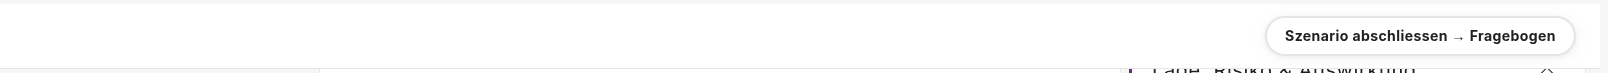
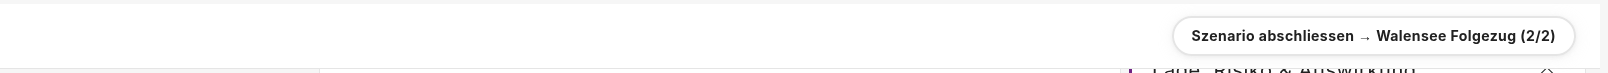
docs(plans): retake the finish pictures of #160 after #174.
Plan B asks no questionnaire after a scenario since #174, so the stepper and
the finish button in the after pictures 1, 6, 7 and 8 changed. The refusal
while a reflection is open is the same.

Changed region(s): [[0.7152, 0.411, 0.9639, 0.6027], [0.7152, 0.7397, 0.8085, 0.7671], [0.7152, 0.2192, 0.8085, 0.2466]]

diff --git a/docs/plans/reflection-inline.md b/docs/plans/reflection-inline.md
@@ -711,6 +711,12 @@ tree:
 | 6 | ![before](reflection-inline/before-6-finish.png) | ![after](reflection-inline/after-6-finish.png) |
 | 7 | – | ![after: finish refused](reflection-inline/after-7-refused.png) |
 
+After 1, 6, 7 and the toolbar picture `after-8-toolbar-refused.png` (the
+components table, cut from 7) are retaken on the rebased branch (`main` 7eef0cb): since
+#174, Plan B asks no questionnaire after a scenario, so the stepper and the
+finish button of its first scenario read «Szenario abschliessen → Walensee
+Folgezug (2/2)» instead of «→ Fragebogen». The refusal is unchanged.
+
 **S7 (2026-11-06).** The frontend suite passes with 670 specs; `i18n:check`,
 `lint:styles` and the production build pass. In the running app, with
 `pauseOnReflection` set on `colearning-experiment` in a local build only:
